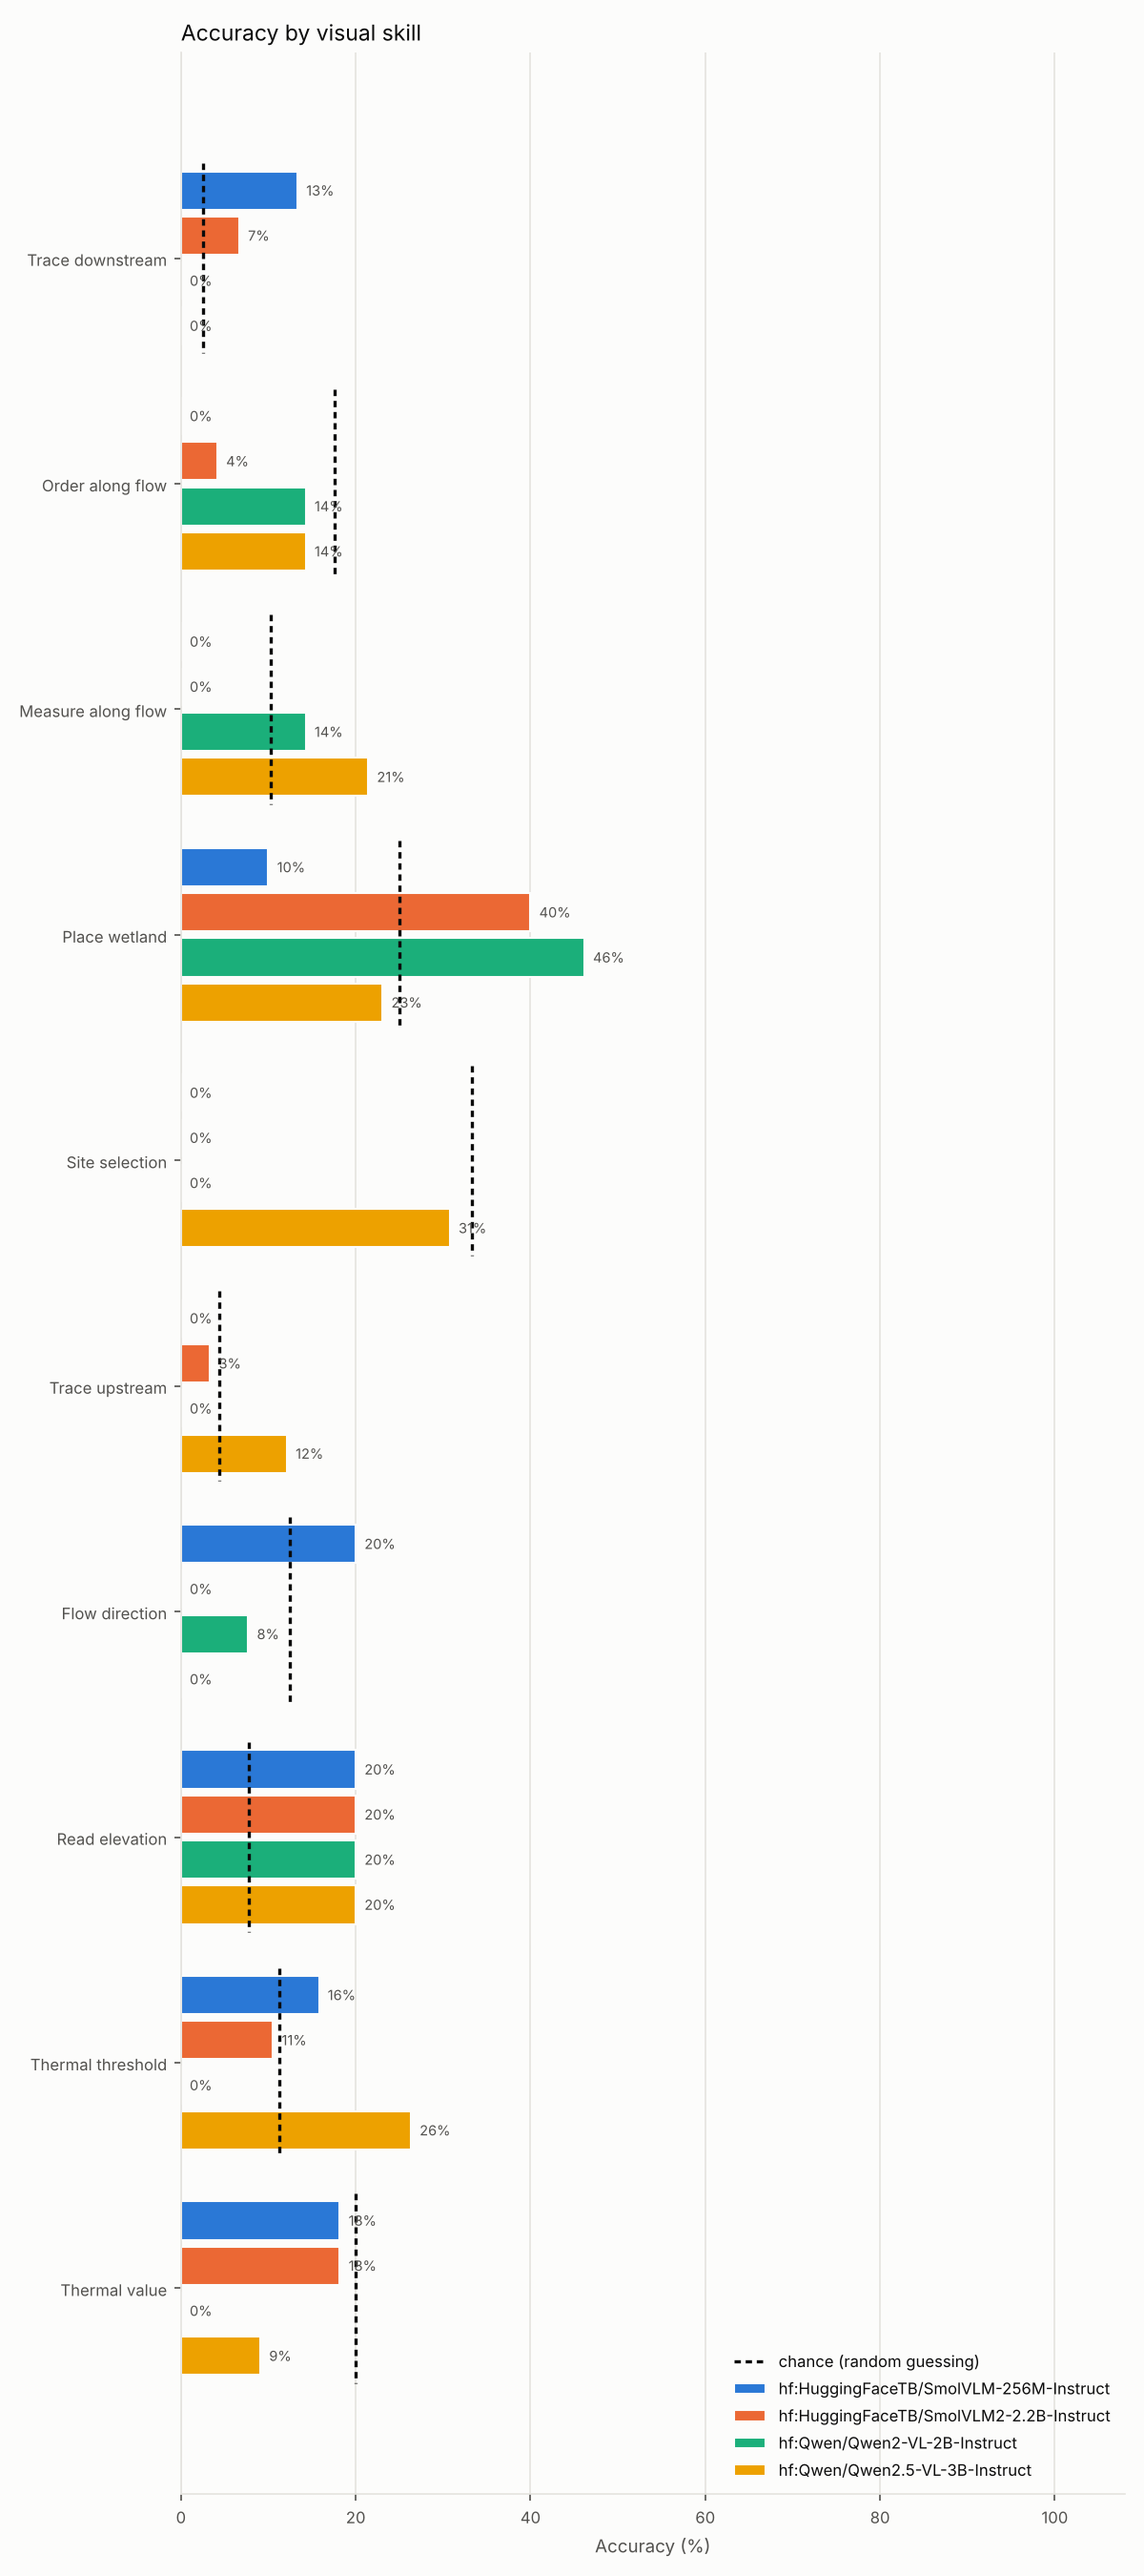
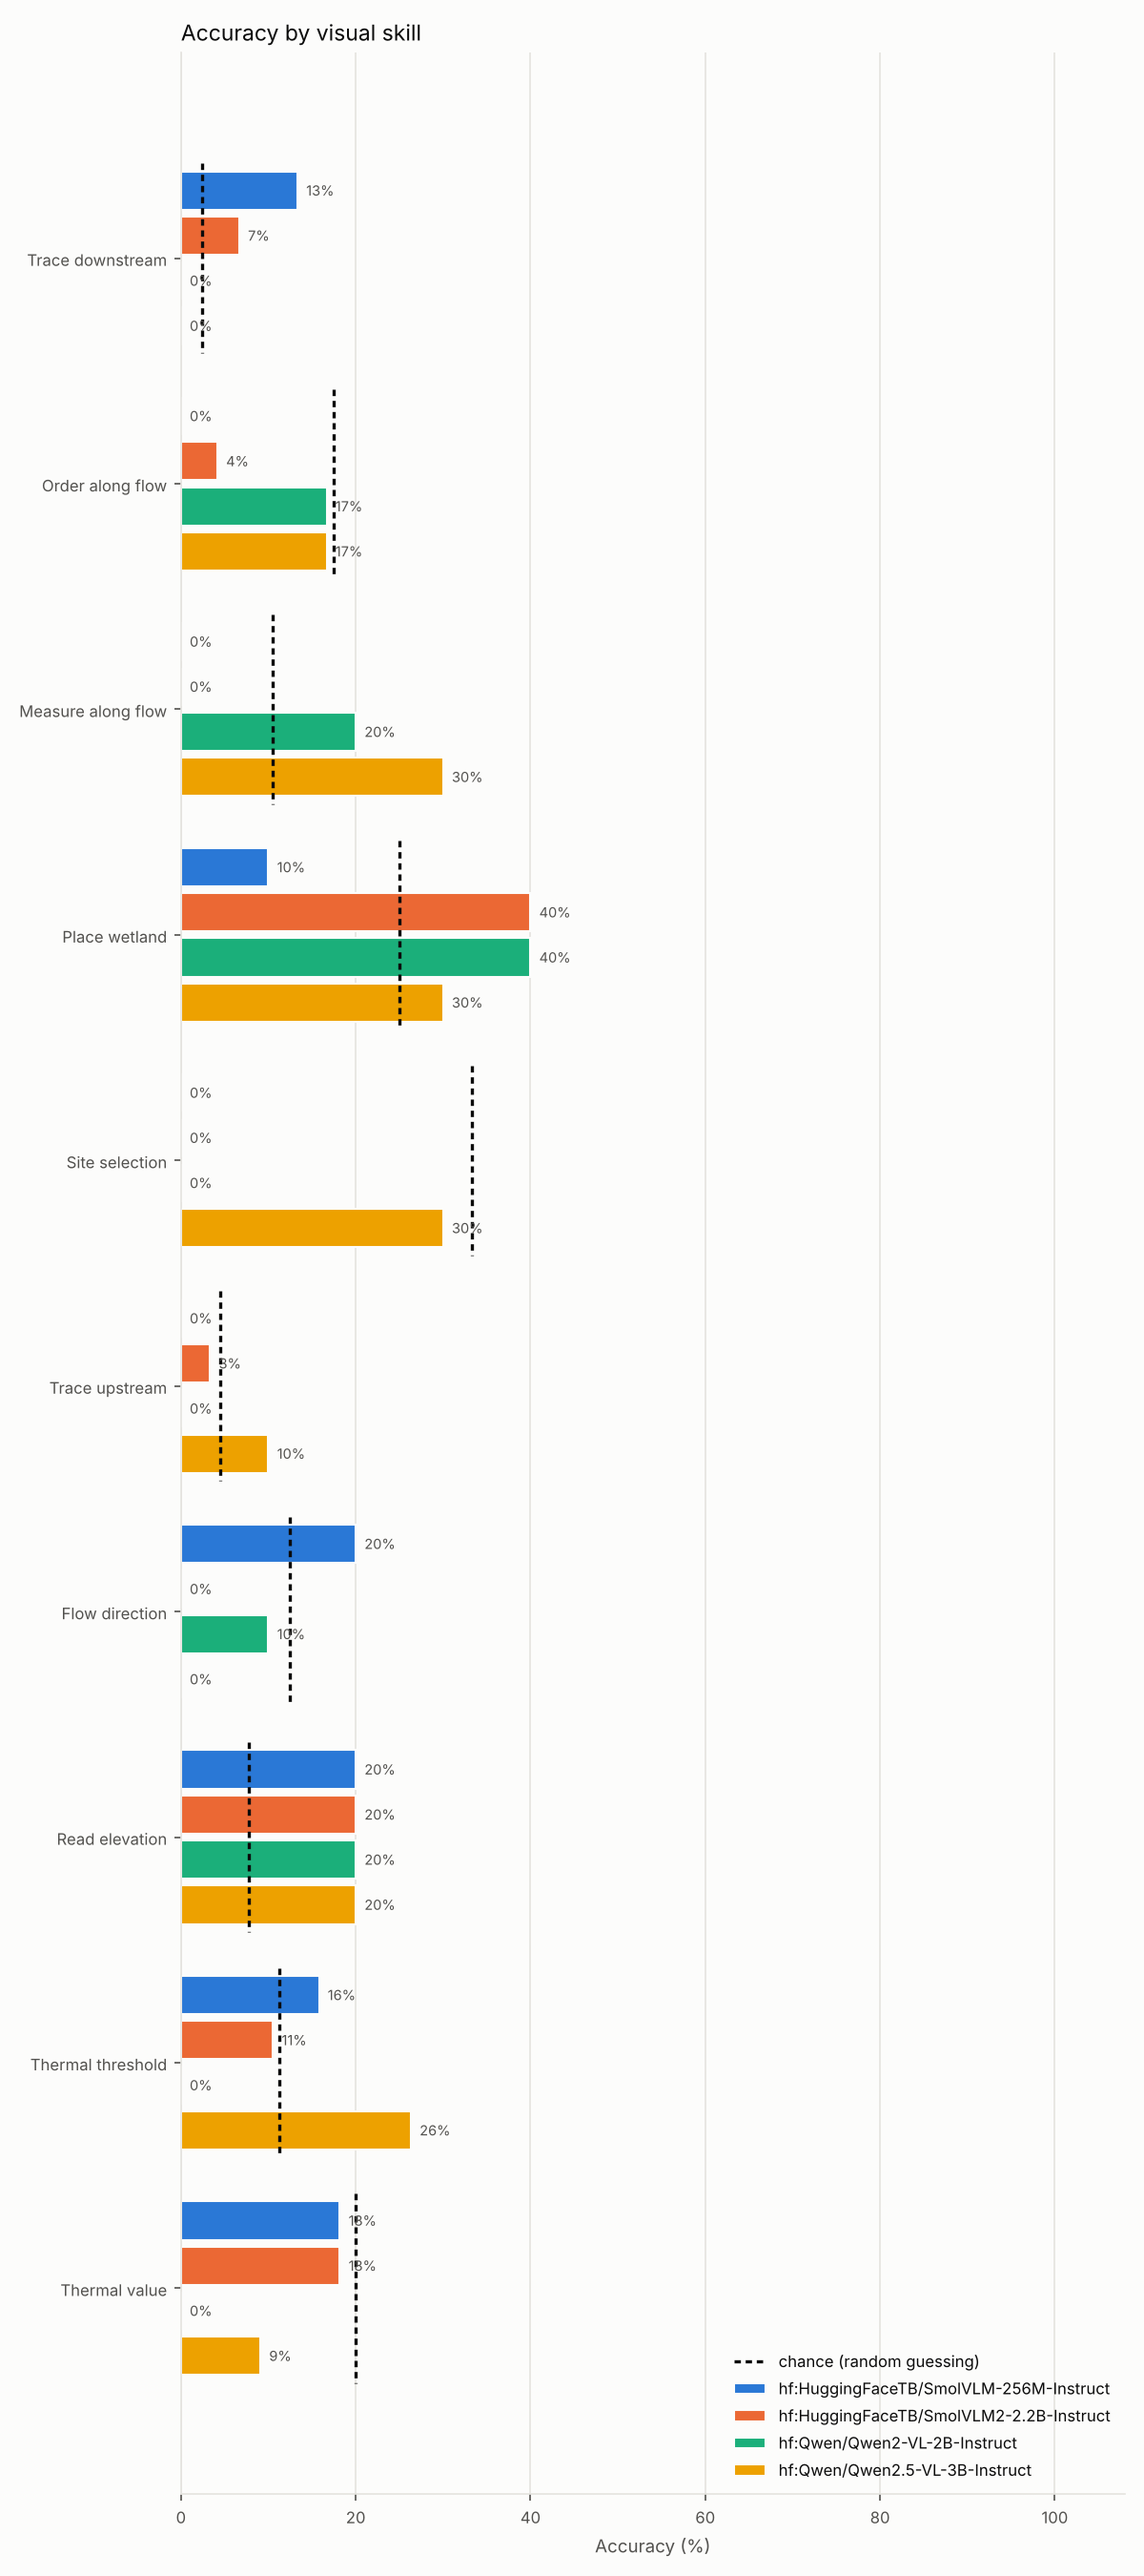
Report and verifier compare every model on the same tasks (appearance-test originals counted only in their own section)

diff --git a/report.py b/report.py
@@ -64,13 +64,22 @@ def build_report(run_dir, dataset):
     probe_rows = [r for r in rows if tasks[r["task_id"]].get("probe")]
     var_rows = [r for r in rows if tasks[r["task_id"]].get("appearance")]
     rows = [r for r in rows if not tasks[r["task_id"]].get("probe") and not tasks[r["task_id"]].get("appearance")]
+    main_all = rows        # includes the original look of appearance groups, used in that section only
+    # Headline numbers compare every model on the SAME tasks: the ones every model answered with the image.
+    per_model = defaultdict(set)
+    for r in rows:
+        if r["mode"] == "image":
+            per_model[r["model"]].add(r["task_id"])
+    common = set.intersection(*per_model.values()) if per_model else set()
+    extra = {m: len(v - common) for m, v in per_model.items() if v - common}
+    rows = [r for r in rows if r["task_id"] in common]
     models = sorted({r["model"] for r in rows + probe_rows}, key=lambda m: (m.startswith("mock"), m))
     img = [r for r in rows if r["mode"] == "image"]
     blind = [r for r in rows if r["mode"] == "blind"]
 
     from scipy.stats import binomtest
     from thirstmap.scoring import chance
-    S = dict(models=models, n_responses=len(rows))
+    S = dict(models=models, n_responses=len(rows), compared_on_tasks=len(common), answers_outside_common_set=extra)
     img_tasks = {r["task_id"] for r in rows if r["mode"] == "image"}
     S["chance_by_skill"] = {sk: sum(chance(tasks[t]) for t in ids) / len(ids)
                             for sk, ids in _group([tasks[t] for t in img_tasks], ("skill",)).items()
@@ -163,7 +172,7 @@ def build_report(run_dir, dataset):
     # appearance invariance: same scene + answers, different look (monsoon / haze / coarse)
     S["appearance_invariance"] = {}
     for m in models:
-        base = {r["task_id"]: r for r in rows if r["model"] == m and r["mode"] == "image"}
+        base = {r["task_id"]: r for r in main_all if r["model"] == m and r["mode"] == "image"}
         groups = defaultdict(dict)
         for r in var_rows:
             if r["model"] == m and r["mode"] == "image":
@@ -286,6 +295,10 @@ def markdown(S, out):
     L += ["## Overall", "", "| Model | With image | Without image (blind) | Tasks |", "|---|---|---|---|"]
     for m, v in S["overall"].items():
         L.append(f"| {m} | {_pct(v['image'])} | {_pct(v['blind'])} | {v['n']} |")
+    if S.get("answers_outside_common_set"):
+        L += ["", f"All models are compared on the same {S['compared_on_tasks']} tasks. Answers to tasks that not every "
+              "model was given (" + ", ".join(f"{m}: {n}" for m, n in S["answers_outside_common_set"].items())
+              + ", e.g. the original look of an appearance group) are used only in their own section below."]
     if S.get("vs_chance"):
         L += ["", "## Better than guessing?", "",
               "Chance = expected accuracy of a random guesser on exactly these tasks (from each task's options). "

diff --git a/verify_results.py b/verify_results.py
@@ -181,9 +181,18 @@ def main():
               "verdict; disagreements are listed so they can be judged by eye.", "",
               "| Model | Mode | Replies | Project scorer on raw replies | In summary.json | Second parser | Agreement |",
               "|---|---|---|---|---|---|---|"]
+        # same rule as the report: compare on the tasks every model answered with the image
+        answered = defaultdict(set)
+        for (m, mode, tid) in olatest:
+            if mode == "image":
+                answered[m].add(tid)
+        common = set.intersection(*answered.values()) if answered else set()
+        L.insert(len(L) - 2, f"Compared on the {len(common)} tasks that every model answered with the image.")
+        L.insert(len(L) - 2, "")
         obym = defaultdict(list)
         for (m, mode, tid), r in olatest.items():
-            obym[(m, mode)].append((alltasks[tid], r))
+            if tid in common:
+                obym[(m, mode)].append((alltasks[tid], r))
         disagree = []
         for (m, mode), v in sorted(obym.items()):
             first = [score(t, r["raw"])["correct"] for t, r in v]

diff --git a/results/open_models/REPORT.md b/results/open_models/REPORT.md
@@ -6,8 +6,10 @@
 |---|---|---|---|
 | hf:HuggingFaceTB/SmolVLM-256M-Instruct | 8% | 10% | 144 |
 | hf:HuggingFaceTB/SmolVLM2-2.2B-Instruct | 8% | 12% | 144 |
-| hf:Qwen/Qwen2-VL-2B-Instruct | 8% | 9% | 168 |
-| hf:Qwen/Qwen2.5-VL-3B-Instruct | 15% | 13% | 168 |
+| hf:Qwen/Qwen2-VL-2B-Instruct | 8% | 9% | 144 |
+| hf:Qwen/Qwen2.5-VL-3B-Instruct | 16% | 13% | 144 |
+
+All models are compared on the same 144 tasks. Answers to tasks that not every model was given (hf:Qwen/Qwen2.5-VL-3B-Instruct: 24, hf:Qwen/Qwen2-VL-2B-Instruct: 24, e.g. the original look of an appearance group) are used only in their own section below.
 
 ## Better than guessing?
 
@@ -17,8 +19,8 @@ Chance = expected accuracy of a random guesser on exactly these tasks (from each
 |---|---|---|---|---|
 | hf:HuggingFaceTB/SmolVLM-256M-Instruct | 11/144 | 8% | 13% | 0.99 |
 | hf:HuggingFaceTB/SmolVLM2-2.2B-Instruct | 12/144 | 8% | 13% | 0.97 |
-| hf:Qwen/Qwen2-VL-2B-Instruct | 14/168 | 8% | 13% | 0.98 |
-| hf:Qwen/Qwen2.5-VL-3B-Instruct | 25/168 | 15% | 13% | 0.29 |
+| hf:Qwen/Qwen2-VL-2B-Instruct | 12/144 | 8% | 13% | 0.97 |
+| hf:Qwen/Qwen2.5-VL-3B-Instruct | 23/144 | 16% | 13% | 0.18 |
 
 ## Accuracy by visual skill
 
@@ -26,13 +28,13 @@ Tasks = distinct tasks per skill (every model answers the same ones); with 10-30
 
 | Skill | Tasks | Chance | hf:HuggingFaceTB/SmolVLM-256M-Instruct | hf:HuggingFaceTB/SmolVLM2-2.2B-Instruct | hf:Qwen/Qwen2-VL-2B-Instruct | hf:Qwen/Qwen2.5-VL-3B-Instruct |
 |---|---|---|---|---|---|---|
-| Trace downstream | 19 | 2% | 13% | 7% | 0% | 0% |
-| Order along flow | 28 | 18% | 0% | 4% | 14% | 14% |
-| Measure along flow | 14 | 10% | 0% | 0% | 14% | 21% |
-| Place wetland | 13 | 25% | 10% | 40% | 46% | 23% |
-| Site selection | 13 | 33% | 0% | 0% | 0% | 31% |
-| Trace upstream | 33 | 4% | 0% | 3% | 0% | 12% |
-| Flow direction | 13 | 12% | 20% | 0% | 8% | 0% |
+| Trace downstream | 15 | 2% | 13% | 7% | 0% | 0% |
+| Order along flow | 24 | 18% | 0% | 4% | 17% | 17% |
+| Measure along flow | 10 | 11% | 0% | 0% | 20% | 30% |
+| Place wetland | 10 | 25% | 10% | 40% | 40% | 30% |
+| Site selection | 10 | 33% | 0% | 0% | 0% | 30% |
+| Trace upstream | 30 | 4% | 0% | 3% | 0% | 10% |
+| Flow direction | 10 | 12% | 20% | 0% | 10% | 0% |
 | Read elevation | 5 | 8% | 20% | 20% | 20% | 20% |
 | Thermal threshold | 19 | 11% | 16% | 11% | 0% | 26% |
 | Thermal value | 11 | 20% | 18% | 18% | 0% | 9% |
@@ -42,7 +44,7 @@ Tasks = distinct tasks per skill (every model answers the same ones); with 10-30
 | Skill | hf:HuggingFaceTB/SmolVLM-256M-Instruct | hf:HuggingFaceTB/SmolVLM2-2.2B-Instruct | hf:Qwen/Qwen2-VL-2B-Instruct | hf:Qwen/Qwen2.5-VL-3B-Instruct |
 |---|---|---|---|---|
 | Trace downstream | 3 | 1 | 1 | 1 |
-| Order along flow | 1 | 1 | 1 | 1 |
+| Order along flow | 1 | 1 | 2 | 2 |
 | Measure along flow | 1 | 1 | 1 | 1 |
 | Place wetland | 1 | 3 | 5 | 1 |
 | Site selection | 1 | 1 | 1 | 1 |
@@ -94,8 +96,8 @@ No reasoning needed: these only ask the model to read what is printed on the ima
 |---|---|---|---|
 | hf:HuggingFaceTB/SmolVLM-256M-Instruct | 98 | 18% | missed_some (56), unparseable_or_no_answer (36), extra_unrelated (11), underestimate (9) |
 | hf:HuggingFaceTB/SmolVLM2-2.2B-Instruct | 98 | 51% | missed_some (34), unparseable_or_no_answer (32), trap:downstream_not_upstream (21), underestimate (14) |
-| hf:Qwen/Qwen2-VL-2B-Instruct | 112 | 65% | trap:downstream_not_upstream (32), missed_some (18), unparseable_or_no_answer (18), trap:other_stream (18) |
-| hf:Qwen/Qwen2.5-VL-3B-Instruct | 112 | 27% | missed_some (58), wrong_choice (25), extra_unrelated (24), overestimate (16) |
+| hf:Qwen/Qwen2-VL-2B-Instruct | 98 | 66% | trap:downstream_not_upstream (29), trap:other_stream (18), missed_some (16), unparseable_or_no_answer (15) |
+| hf:Qwen/Qwen2.5-VL-3B-Instruct | 98 | 27% | missed_some (52), extra_unrelated (21), wrong_choice (19), overestimate (13) |
 
 Tasks a majority of real models answered correctly WITHOUT the image: 11
 
@@ -105,8 +107,8 @@ Tasks a majority of real models answered correctly WITHOUT the image: 11
 |---|---|---|---|---|
 | hf:HuggingFaceTB/SmolVLM-256M-Instruct | 199768 | 8185 | 0 | 9.73 |
 | hf:HuggingFaceTB/SmolVLM2-2.2B-Instruct | 241384 | 4109 | 0 | 9.72 |
-| hf:Qwen/Qwen2-VL-2B-Instruct | 192151 | 5387 | 0 | 6.59 |
-| hf:Qwen/Qwen2.5-VL-3B-Instruct | 192151 | 3087 | 0 | 7.14 |
+| hf:Qwen/Qwen2-VL-2B-Instruct | 168420 | 5055 | 0 | 6.05 |
+| hf:Qwen/Qwen2.5-VL-3B-Instruct | 168420 | 2857 | 0 | 6.69 |
 
 ![skills](chart_accuracy_by_skill.png)
 

diff --git a/docs/FINDINGS.md b/docs/FINDINGS.md
@@ -4,17 +4,15 @@ Free, open-weight models from Hugging Face, run locally on CPU (no API keys). Ev
 
 | Model | Size | Accuracy | Without image | Chance | p (beats chance) | Pair accuracy | Same answer to original & twin | Same answer in 4 looks | Reading checks |
 |---|---|---|---|---|---|---|---|---|---|
-| Qwen2.5-VL-3B-Instruct | 3B | **15%** (25/168) | 13% | 13% | 0.29 | 0% | 87% | 75% (n=24) | 69% (n=16) |
+| Qwen2.5-VL-3B-Instruct | 3B | **16%** (23/144) | 13% | 13% | 0.18 | 0% | 87% | 75% (n=24) | 69% (n=16) |
 | SmolVLM2-2.2B-Instruct | 2.2B | **8%** (12/144) | 12% | 13% | 0.97 | 0% | 77% | – | 69% (n=16) |
-| Qwen2-VL-2B-Instruct | 2B | **8%** (14/168) | 9% | 13% | 0.98 | 0% | 87% | 88% (n=24) | 94% (n=16) |
+| Qwen2-VL-2B-Instruct | 2B | **8%** (12/144) | 9% | 13% | 0.97 | 0% | 87% | 88% (n=24) | 94% (n=16) |
 | SmolVLM-256M-Instruct | 0.26B | **8%** (11/144) | 10% | 13% | 0.99 | 0% | 73% | – | 0% (n=16) |
-
-*Interim: evaluation still running for SmolVLM2-2.2B-Instruct (144 of 168 tasks so far), SmolVLM-256M-Instruct (144 of 168 tasks so far); numbers for it will change and more models may be added.*
 
 ## What the numbers say
 
-- **No open model is significantly better than random guessing overall** (all p ≥ 0.05). The best, Qwen2.5-VL-3B-Instruct, scores 15% against a chance level of 13% (p = 0.29).
-- **The image barely helps.** Accuracy with vs without the image: Qwen2.5-VL-3B-Instruct 15% vs 13%; SmolVLM2-2.2B-Instruct 8% vs 12%; Qwen2-VL-2B-Instruct 8% vs 9%; SmolVLM-256M-Instruct 8% vs 10%.
+- **No open model is significantly better than random guessing overall** (all p ≥ 0.05). The best, Qwen2.5-VL-3B-Instruct, scores 16% against a chance level of 13% (p = 0.18).
+- **The image barely helps.** Accuracy with vs without the image: Qwen2.5-VL-3B-Instruct 16% vs 13%; SmolVLM2-2.2B-Instruct 8% vs 12%; Qwen2-VL-2B-Instruct 8% vs 9%; SmolVLM-256M-Instruct 8% vs 10%.
 - **Counterfactual twins expose answering from habit.** Share of pairs where the model gave the same answer to the original and to its twin (whose correct answer is different): Qwen2.5-VL-3B-Instruct 87% (both right: 0%); SmolVLM2-2.2B-Instruct 77% (both right: 0%); Qwen2-VL-2B-Instruct 87% (both right: 0%); SmolVLM-256M-Instruct 73% (both right: 0%).
 - **Appearance changes move answers.** Share of question groups answered identically in the dry-season, monsoon, haze and coarse-sensor versions of the same scene (the correct answer is identical in all four): Qwen2.5-VL-3B-Instruct 75%; Qwen2-VL-2B-Instruct 88%.
 - **Can they read the image at all?** Reading checks need no reasoning: list every village or monitoring-point label written on the image, or read the spot height printed next to pond P: Qwen2.5-VL-3B-Instruct 69%; SmolVLM2-2.2B-Instruct 69%; Qwen2-VL-2B-Instruct 94%; SmolVLM-256M-Instruct 0%. A model that reads labels but fails the water questions is failing the reasoning, not the eyesight.
@@ -24,13 +22,13 @@ Free, open-weight models from Hugging Face, run locally on CPU (no API keys). Ev
 
 | Skill | Tasks | Chance | Qwen2.5-VL-3B-Instruct | SmolVLM2-2.2B-Instruct | Qwen2-VL-2B-Instruct | SmolVLM-256M-Instruct |
 |---|---|---|---|---|---|---|
-| Trace downstream | 19 | 2% | 0% | 7% | 0% | 13% |
-| Order along flow | 28 | 18% | 14% | 4% | 14% | 0% |
-| Measure along flow | 14 | 10% | 21% | 0% | 14% | 0% |
-| Place wetland | 13 | 25% | 23% | 40% | 46% | 10% |
-| Site selection | 13 | 33% | 31% | 0% | 0% | 0% |
-| Trace upstream | 33 | 4% | 12% | 3% | 0% | 0% |
-| Flow direction | 13 | 12% | 0% | 0% | 8% | 20% |
+| Trace downstream | 15 | 2% | 0% | 7% | 0% | 13% |
+| Order along flow | 24 | 18% | 17% | 4% | 17% | 0% |
+| Measure along flow | 10 | 11% | 30% | 0% | 20% | 0% |
+| Place wetland | 10 | 25% | 30% | 40% | 40% | 10% |
+| Site selection | 10 | 33% | 30% | 0% | 0% | 0% |
+| Trace upstream | 30 | 4% | 10% | 3% | 0% | 0% |
+| Flow direction | 10 | 12% | 0% | 0% | 10% | 20% |
 | Read elevation | 5 | 8% | 20% | 20% | 20% | 20% |
 | Thermal threshold | 19 | 11% | 26% | 11% | 0% | 16% |
 | Thermal value | 11 | 20% | 9% | 18% | 0% | 18% |

diff --git a/README.md b/README.md
@@ -17,17 +17,15 @@ See [`docs/ARCHITECTURE.md`](docs/ARCHITECTURE.md) for the pipeline diagram and 
 
 | Model | Size | Accuracy | Without image | Chance | p (beats chance) | Pair accuracy | Same answer to original & twin | Same answer in 4 looks | Reading checks |
 |---|---|---|---|---|---|---|---|---|---|
-| Qwen2.5-VL-3B-Instruct | 3B | **15%** (25/168) | 13% | 13% | 0.29 | 0% | 87% | 75% (n=24) | 69% (n=16) |
+| Qwen2.5-VL-3B-Instruct | 3B | **16%** (23/144) | 13% | 13% | 0.18 | 0% | 87% | 75% (n=24) | 69% (n=16) |
 | SmolVLM2-2.2B-Instruct | 2.2B | **8%** (12/144) | 12% | 13% | 0.97 | 0% | 77% | – | 69% (n=16) |
-| Qwen2-VL-2B-Instruct | 2B | **8%** (14/168) | 9% | 13% | 0.98 | 0% | 87% | 88% (n=24) | 94% (n=16) |
+| Qwen2-VL-2B-Instruct | 2B | **8%** (12/144) | 9% | 13% | 0.97 | 0% | 87% | 88% (n=24) | 94% (n=16) |
 | SmolVLM-256M-Instruct | 0.26B | **8%** (11/144) | 10% | 13% | 0.99 | 0% | 73% | – | 0% (n=16) |
-
-*Interim: evaluation still running for SmolVLM2-2.2B-Instruct (144 of 168 tasks so far), SmolVLM-256M-Instruct (144 of 168 tasks so far); numbers for it will change and more models may be added.*
 
 ### What the numbers say
 
-- **No open model is significantly better than random guessing overall** (all p ≥ 0.05). The best, Qwen2.5-VL-3B-Instruct, scores 15% against a chance level of 13% (p = 0.29).
-- **The image barely helps.** Accuracy with vs without the image: Qwen2.5-VL-3B-Instruct 15% vs 13%; SmolVLM2-2.2B-Instruct 8% vs 12%; Qwen2-VL-2B-Instruct 8% vs 9%; SmolVLM-256M-Instruct 8% vs 10%.
+- **No open model is significantly better than random guessing overall** (all p ≥ 0.05). The best, Qwen2.5-VL-3B-Instruct, scores 16% against a chance level of 13% (p = 0.18).
+- **The image barely helps.** Accuracy with vs without the image: Qwen2.5-VL-3B-Instruct 16% vs 13%; SmolVLM2-2.2B-Instruct 8% vs 12%; Qwen2-VL-2B-Instruct 8% vs 9%; SmolVLM-256M-Instruct 8% vs 10%.
 - **Counterfactual twins expose answering from habit.** Share of pairs where the model gave the same answer to the original and to its twin (whose correct answer is different): Qwen2.5-VL-3B-Instruct 87% (both right: 0%); SmolVLM2-2.2B-Instruct 77% (both right: 0%); Qwen2-VL-2B-Instruct 87% (both right: 0%); SmolVLM-256M-Instruct 73% (both right: 0%).
 - **Appearance changes move answers.** Share of question groups answered identically in the dry-season, monsoon, haze and coarse-sensor versions of the same scene (the correct answer is identical in all four): Qwen2.5-VL-3B-Instruct 75%; Qwen2-VL-2B-Instruct 88%.
 - **Can they read the image at all?** Reading checks need no reasoning: list every village or monitoring-point label written on the image, or read the spot height printed next to pond P: Qwen2.5-VL-3B-Instruct 69%; SmolVLM2-2.2B-Instruct 69%; Qwen2-VL-2B-Instruct 94%; SmolVLM-256M-Instruct 0%. A model that reads labels but fails the water questions is failing the reasoning, not the eyesight.
